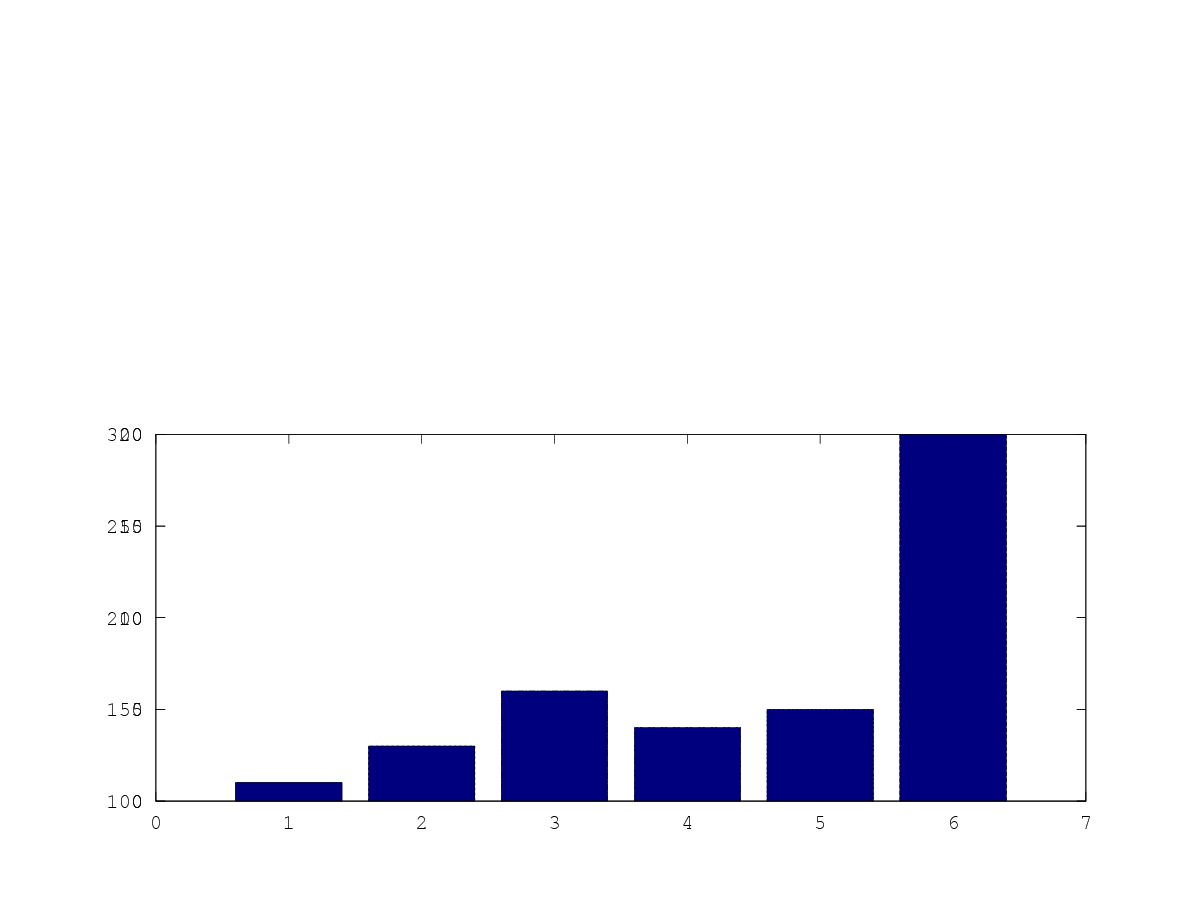
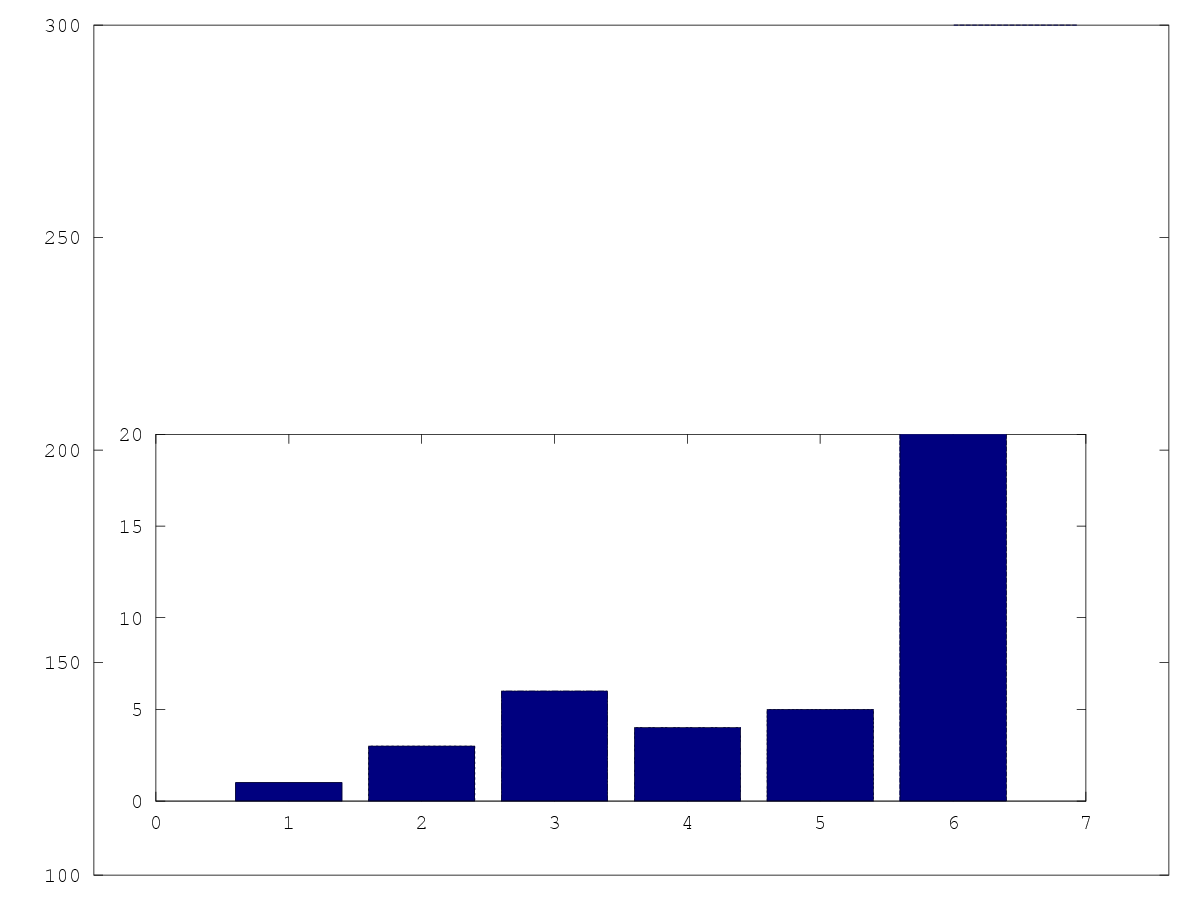
break_axis.m

diff --git a/break_axis.m b/break_axis.m
@@ -25,9 +25,8 @@ set(a1,'ylim',ylim1);
 % create axis2
 %a2=axes('position',[p0(1)+p0(3)/2+.025 p0(2) p0(3)/2-.025 p0(4)]);
 %a2=axes('position',[p0(1) p0(4)/2+.145 p0(3) p0(4)/2])
-%a2=axes('position',[p0(1) p0(4)/2+.145 p0(3) p0(4)/3])
-%a2=axes('position',[p0(1) p0(4)/2+.145 p0(3) p0(4)/2])
-a2=axes('position',[p0(1) p0(2) p0(3) p0(4)/2]);
+%a2=axes('position',[p0(1) p0(2) p0(3) p0(4)/2]);
+a2=axes('position',[p0(1) p0(2) p0(3) p0(4)]);
 %barh(a);
 bar(a);
 
